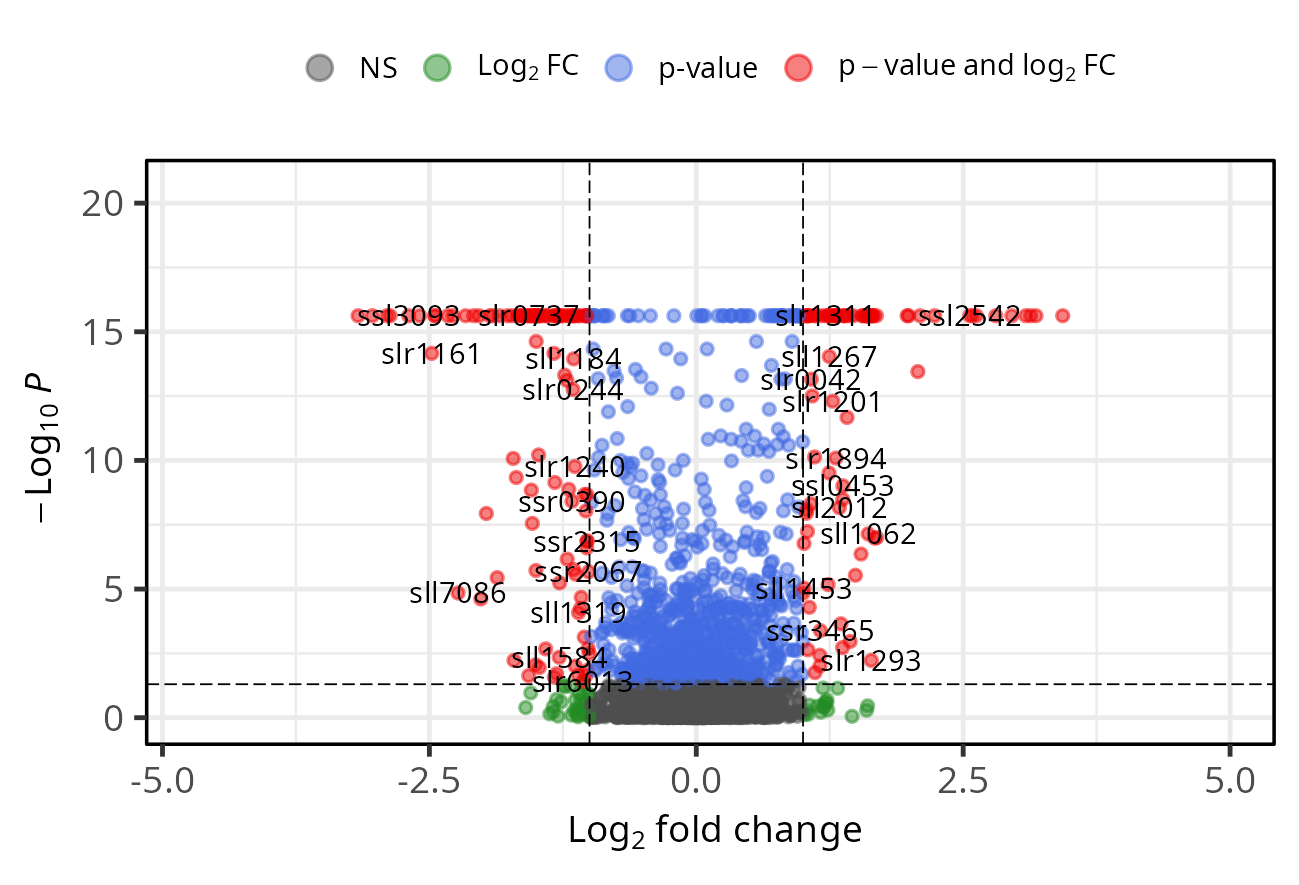
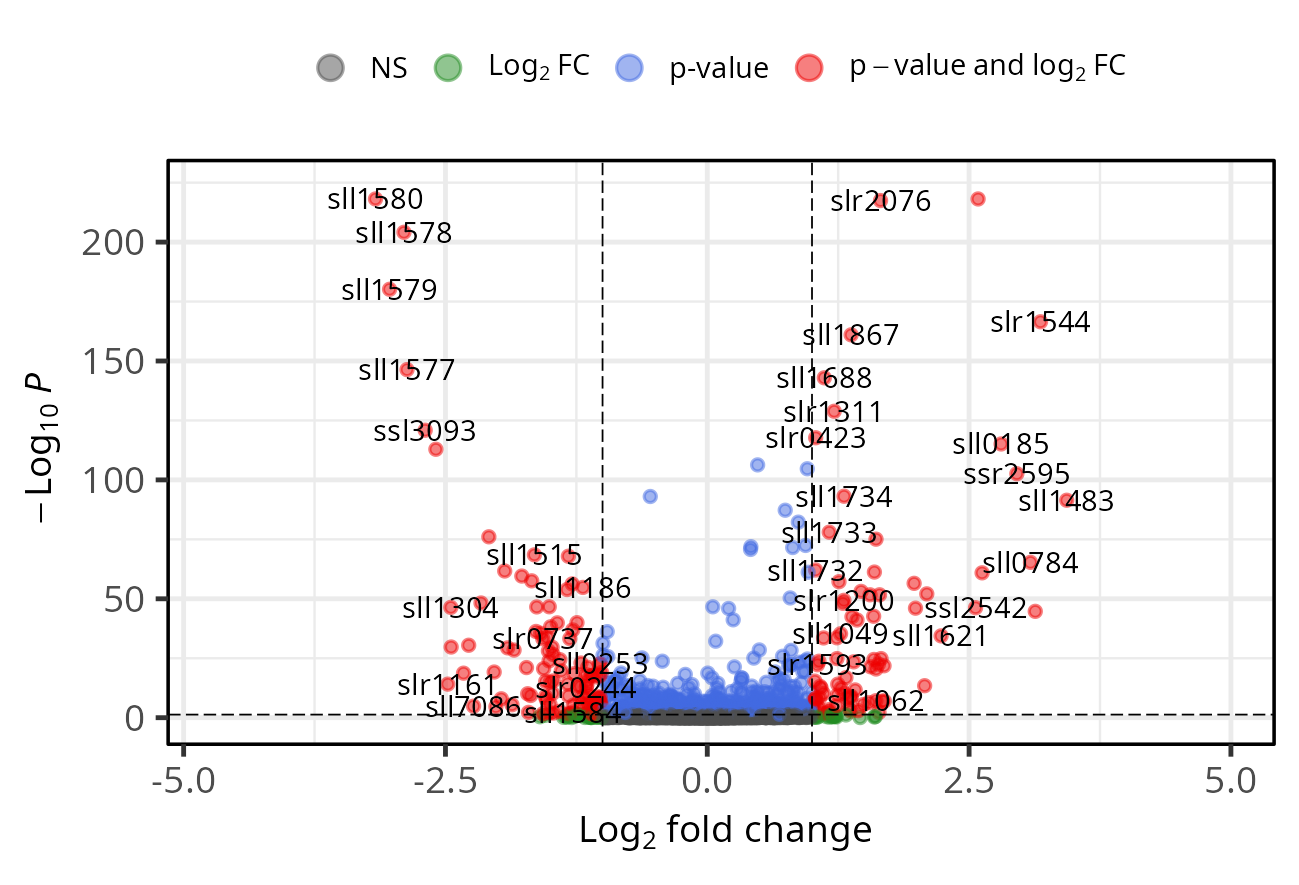
update the volcano figure and text in the manual

diff --git a/manual/TMA_Manual.md b/manual/TMA_Manual.md
@@ -36,7 +36,7 @@ Several of these changes fix errors in the results of earlier versions, so resul
 | Heatmap | The heatmap values are now attached to the correct gene and sample. Earlier versions could place values in the wrong cells. The heatmap no longer fails when the meta-analysis finds fewer DEGs than there are samples. |
 | Heatmap clusters | A new **Number of gene clusters** input (default 2) sets how many clusters the genes are split into, both in the interactive heatmap and in the downloaded PDF. |
 | PCA | The PCA now uses the correct normalized counts for every sample. Earlier versions mixed values between genes and samples. |
-| Volcano plot | The x-axis now shows the correct mean log2 fold change of each gene across studies. |
+| Volcano plot | The x-axis now shows the correct mean log2 fold change of each gene across studies. Very small *p*-values are now kept exact, so the most significant genes are drawn at their real height instead of on a flat line at the top of the plot. |
 | GO / KEGG enrichment | Enrichment is now run on the meta-analysis DEGs only (significant in the meta-analysis *and* changed in the same direction in every study). Earlier versions used every gene with a consistent direction, whether significant or not. |
 | Closing the app | When the app is started with `runTMA()`, it stops when its browser window is closed, as before. When it is deployed on a Shiny Server, closing one browser window no longer shuts the app down for all other users. |
 | Methods | Besides DESeq2, the differential expression can now be run with edgeR or limma-voom, for all studies or chosen per study. Besides Fisher's method, the *p*-values can be combined with the inverse-normal method. See [Analysis settings](#422-analysis-settings). |
@@ -233,7 +233,7 @@ TMA generates several main plots to give the user an overview of the analyzed da
 
    *Figure 12: The intersection of identified DEGs is shown via (a) a Venn diagram, if the number of analyzed studies is 3 or fewer, and (b) an UpSet plot.*
 
-5. Finally, a **volcano plot** (Figure 13) shows the adjusted meta-analysis *p*-values (−log10) on the y-axis and the mean log2 fold change of each gene across all studies on the x-axis. It is generated with the `EnhancedVolcano` package. The figure and the data used to create it are available for download.
+5. Finally, a **volcano plot** (Figure 13) shows the adjusted meta-analysis *p*-values (−log10) on the y-axis and the mean log2 fold change of each gene across all studies on the x-axis. It is generated with the `EnhancedVolcano` package. TMA computes the meta-analysis *p*-values so that values far below 10⁻¹⁶ stay exact; in the rare case that a *p*-value is still exactly 0, it is drawn at the height of the smallest non-zero *p*-value. The figure and the data used to create it are available for download.
 
    ![Figure 13](figures/fig13_volcano.png)
 
